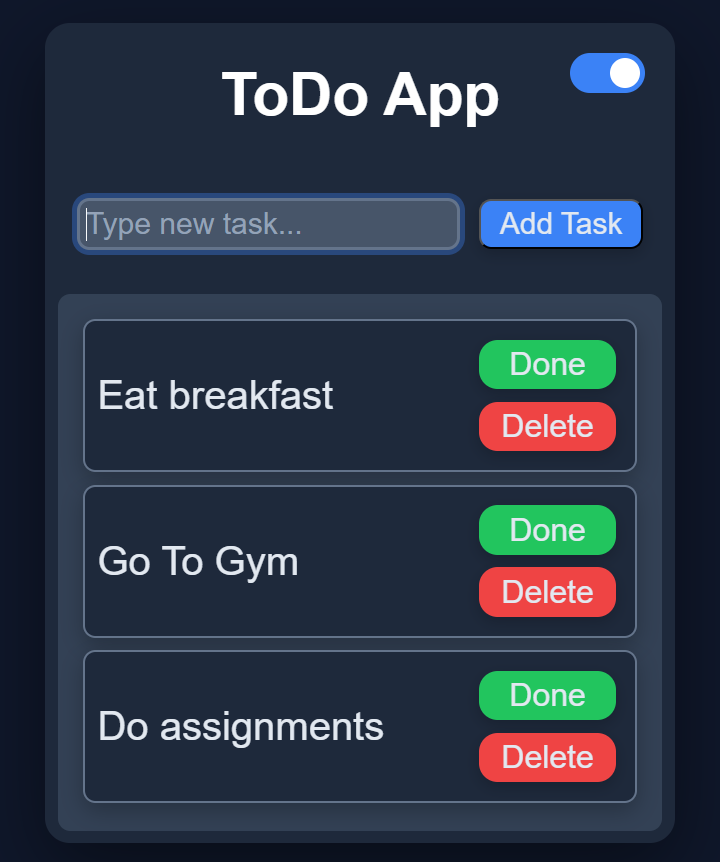
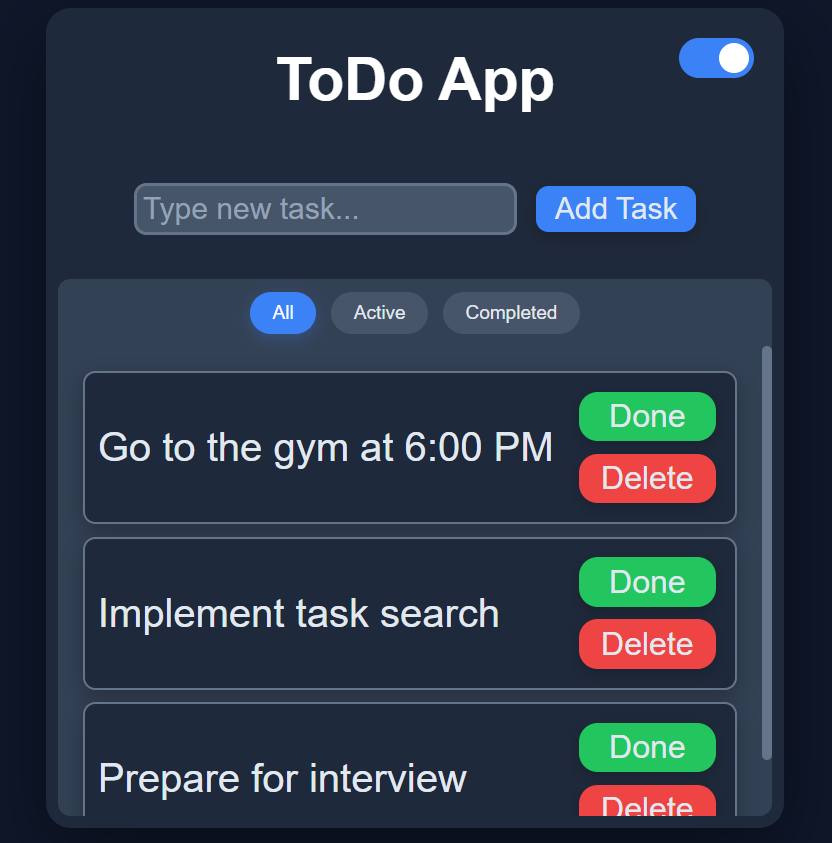
Update README and screenshots

Changed region(s): [[0.0306, 0.0925, 0.9472, 0.987], [0.3056, 0.0617, 0.7028, 0.1542], [0.7944, 0.0308, 0.9167, 0.1234]]

diff --git a/README.md b/README.md
@@ -5,7 +5,7 @@
 ![Vite](https://img.shields.io/badge/Vite-7-646CFF?logo=vite&logoColor=white)
 ![MIT License](https://img.shields.io/badge/License-MIT-green)
 
-A modern and responsive **To-Do List application** built with **React**. It allows users to manage their daily tasks efficiently with features like inline editing, task completion, deletion, dark/light theme switching, and a clean, intuitive user interface.
+A modern and responsive **To-Do List application** built with **React**. It allows users to manage their daily tasks efficiently with features like inline editing, task filtering, local storage persistence, task completion, deletion, dark/light theme switching, keyboard shortcuts, and a clean, intuitive user interface.
 
 ---
 
@@ -15,13 +15,15 @@ A modern and responsive **To-Do List application** built with **React**. It allo
 * ✏️ Edit tasks by double-clicking
 * ✅ Mark tasks as completed
 * 🗑️ Delete tasks
+* 🔍 Filter tasks (All / Active / Completed)
+* 💾 Automatically save tasks using Local Storage
+* 🌙 Remember selected theme after page refresh
 * 🌙 Toggle between Dark and Light themes
 * 🎨 Elegant UI with smooth animations
+* 📱 Responsive design
 * ⌨️ Keyboard shortcuts
-
   * **Enter** → Add/Save task
   * **Escape** → Cancel editing
-* 📱 Responsive design
 * 🎯 Clean and beginner-friendly React code
 
 ---
@@ -64,6 +66,7 @@ A modern and responsive **To-Do List application** built with **React**. It allo
 * CSS3
 * CSS Variables
 * React Hooks
+* Browser Local Storage API
 * Vite
 
 ---
@@ -139,6 +142,30 @@ The UI updates instantly using CSS Variables.
 
 ---
 
+### Task Filtering
+
+Use the filter buttons above the task list to quickly switch between:
+
+* 📋 All Tasks
+* 🟢 Active Tasks
+* ✅ Completed Tasks
+
+The task list updates instantly without reloading the page.
+
+---
+
+### Local Storage
+
+Tasks are automatically saved in your browser using **Local Storage**.
+
+This means:
+
+* Refreshing the page does not remove your tasks.
+* Your selected theme is also remembered.
+* No login or backend is required.
+
+---
+
 ## 💡 React Concepts Used
 
 This project demonstrates:
@@ -151,7 +178,8 @@ This project demonstrates:
 * Conditional Rendering
 * Event Handling
 * Dynamic Rendering using `.map()`
-* Inline Styling
+* Array Filtering using `.filter()`
+* Browser Local Storage API
 * CSS Variables
 * Responsive Layout
 
@@ -175,6 +203,9 @@ This project demonstrates:
 * Custom scrollbar
 * Dark & Light themes
 * Responsive layout
+* Theme persistence
+* Sticky filter tabs
+* Scrollable task list
 * Elegant typography using **Poppins**
 
 ---
@@ -219,11 +250,10 @@ http://localhost:5173
 * 📅 Due dates
 * 🔍 Search tasks
 * 🏷️ Categories
-* 📂 Filter (All / Active / Completed)
-* ⬆️⬇️ Reorder tasks
-* 💾 Save tasks using Local Storage
+* ⬆️⬇️ Drag & Drop task reordering
 * ☁️ Cloud synchronization
 * 📊 Task statistics
+* 🔔 Notifications & reminders
 
 ---
 